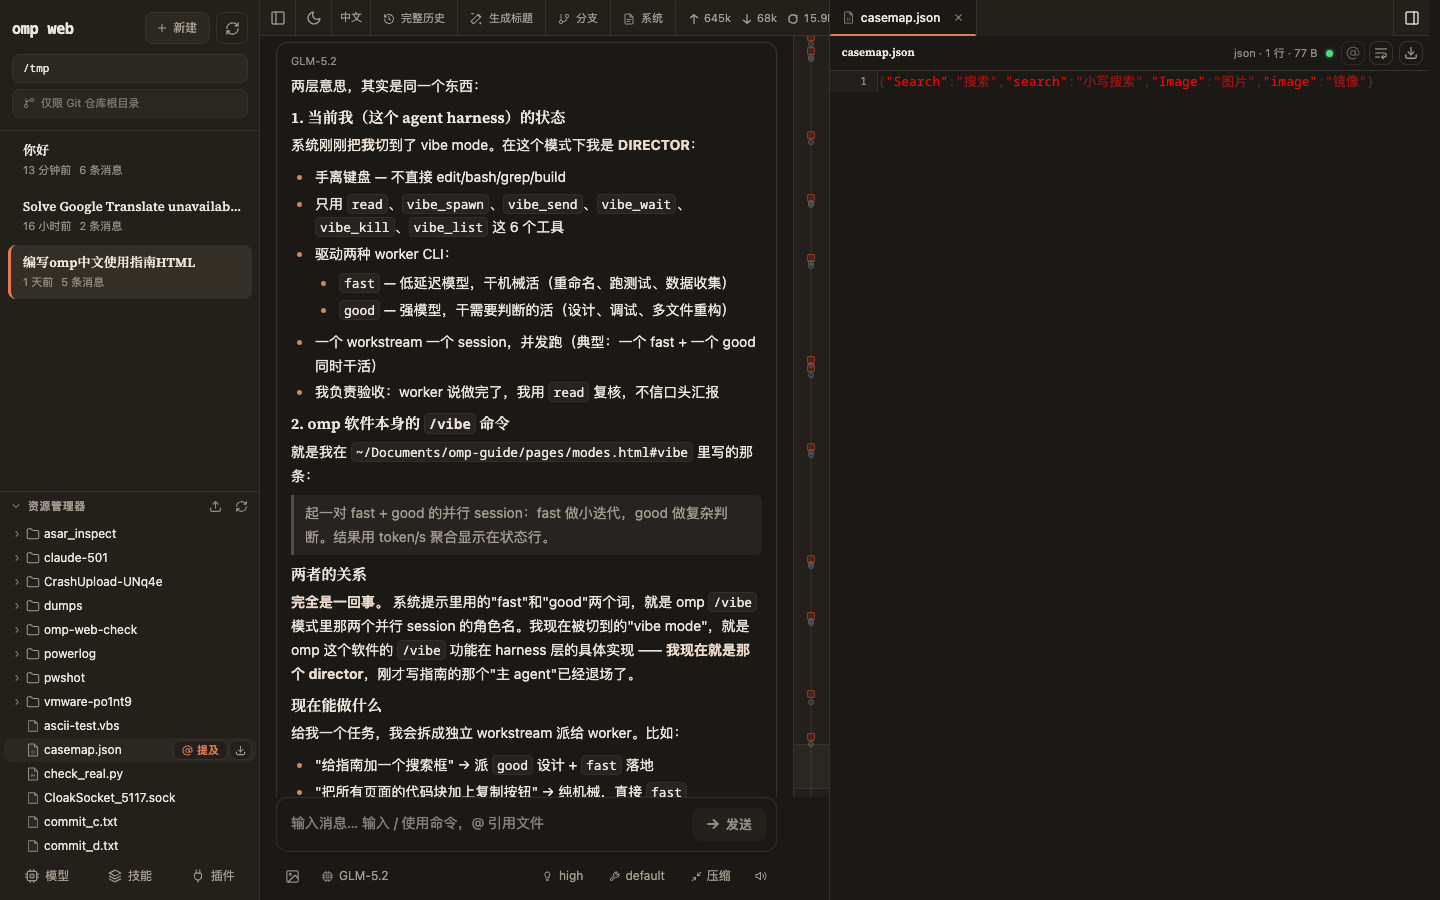
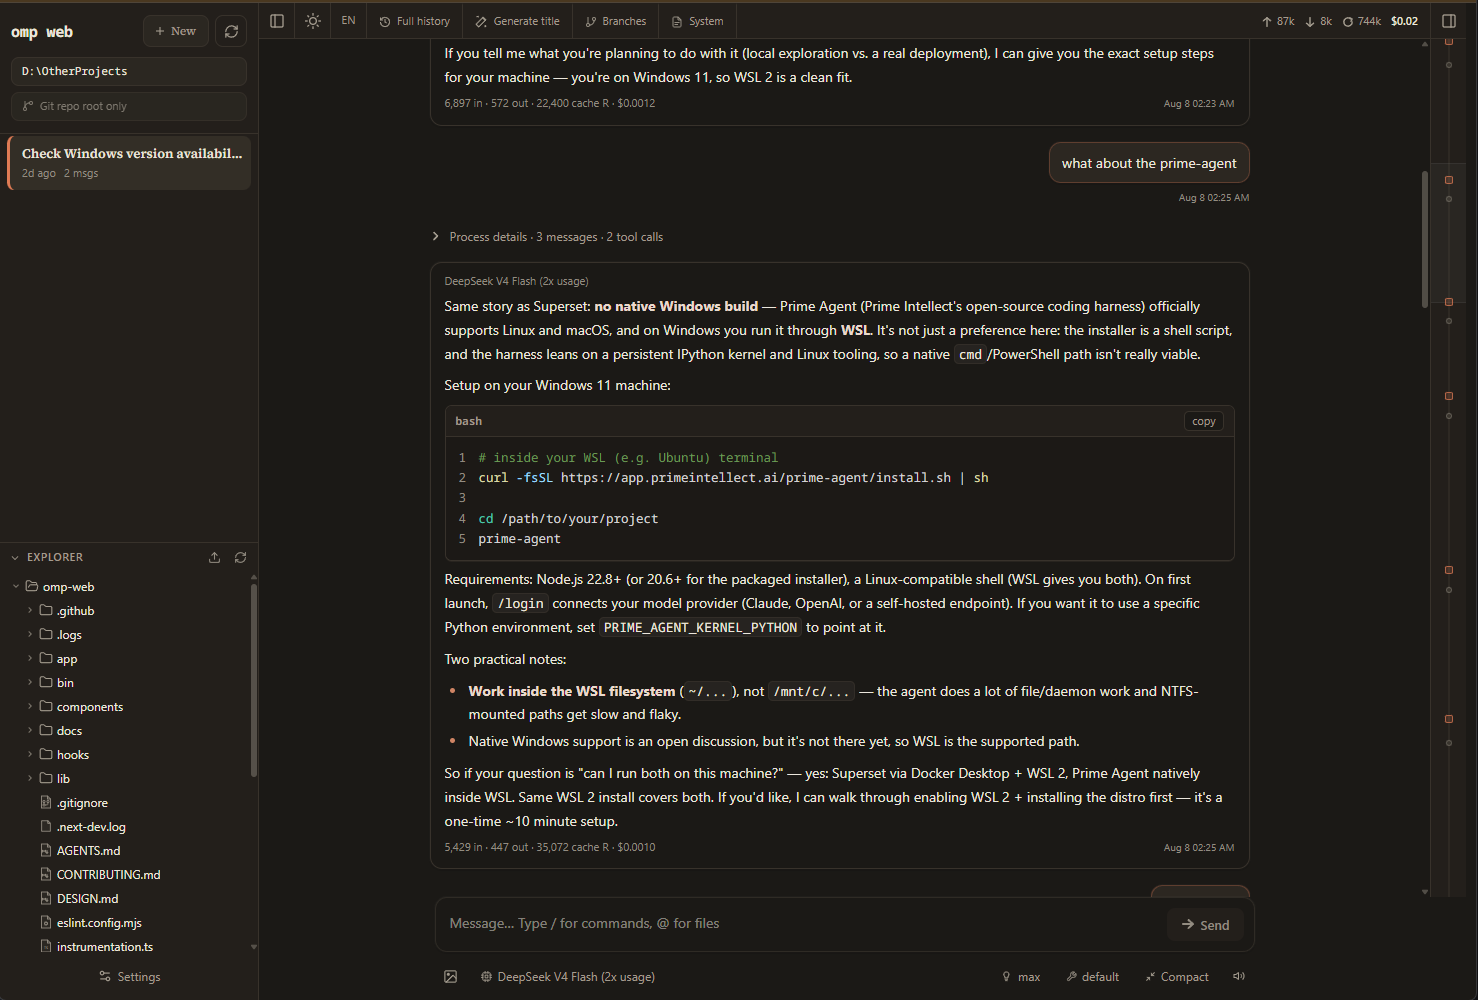
Refresh screenshots and development configuration

diff --git a/instrumentation.ts b/instrumentation.ts
@@ -4,13 +4,12 @@ export async function register(): Promise<void> {
   const { configureHttpDispatcher } = await import("@/lib/http-dispatcher");
   configureHttpDispatcher();
 
-  // Startup diagnostics: node version, agent dir, pid. Cheap to emit and the
-  // only signal in the logs that the server runtime actually came up. Kept to
-  // one line so it greps cleanly; failures here must never block boot.
+  // Startup diagnostics: agent dir. Kept to one line so it greps cleanly;
+  // failures here must never block boot.
   try {
     const { getAgentDir } = await import("@/lib/session-reader");
     console.log(
-      `[omp-web] starting (node ${process.version}, pid ${process.pid}, agent-dir ${getAgentDir()})`,
+      `[omp-web] starting (agent-dir ${getAgentDir()})`,
     );
   } catch {
     // Diagnostics are best-effort.

diff --git a/next.config.ts b/next.config.ts
@@ -36,7 +36,7 @@ const nextConfig: NextConfig = {
   // Next.js enables gzip/brotli compression for `next start` by default; no
   // custom compression middleware is needed (and would require a custom server).
   async headers() {
-    return [
+    const headers = [
       {
         // Hashed build output never changes, so browsers/proxies may cache it
         // immutably for a year and skip revalidation entirely.
@@ -54,6 +54,12 @@ const nextConfig: NextConfig = {
         ],
       },
     ];
+
+    if (process.env.NODE_ENV !== "production") {
+      return headers.slice(1);
+    }
+
+    return headers;
   },
   env: {
     NEXT_PUBLIC_APP_VERSION: version,

diff --git a/README.md b/README.md
@@ -7,11 +7,9 @@ Local web UI for the [oh-my-pi (omp) coding agent](https://github.com/can1357/oh
 ![ompweb — light theme](docs/screenshot-light.png)
 
 <details>
-<summary>Dark theme &amp; command palette</summary>
+<summary>Dark theme</summary>
 
 ![ompweb — dark theme](docs/screenshot-dark.png)
-
-![ompweb — command palette](docs/screenshot-palette.png)
 
 </details>
 
